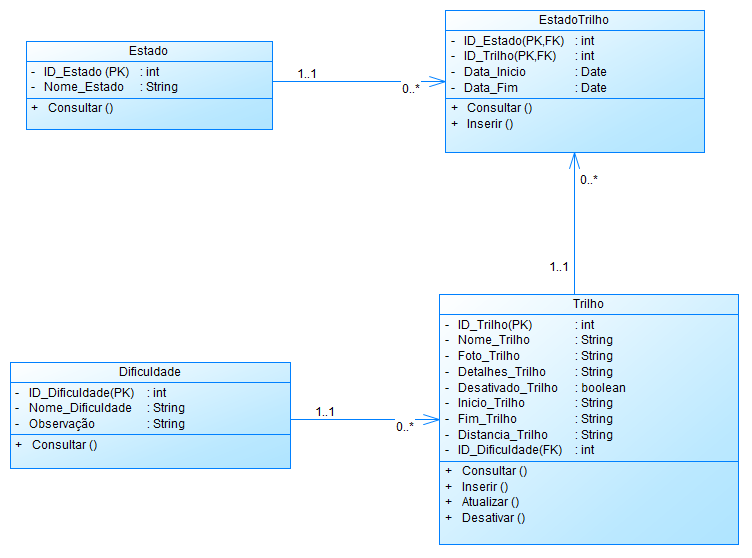
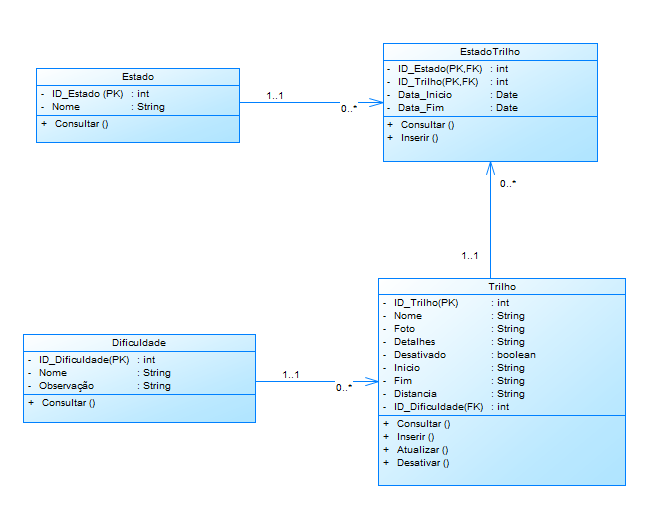
P.I.  Corrigido nome atributos na Classe Trilho (P.I.) - Corrigidos nomes dos campos das Classes (Eng.Soft.2)
Tempo: 0h

diff --git a/Trails4Health/Data/SeedData.cs b/Trails4Health/Data/SeedData.cs
@@ -25,20 +25,20 @@ namespace Trails4Health.Models
         {
             // nota: Em ApplicationDbContext temos campo: DbSet<Product> Products { get; set; }
             dbContext.Trilhos.AddRange(
-                 new Trilho { Nome_Trilho = "Fojo", Foto_Trilho = "~/images/intro-pic.jpg", Detalhes_Trilho = "Lorem ipsum dolor sit amet, consectetur Magnam soluta doloreos excepturi veritatis",
-                     Desativado_Trilho = false, Inicio_Trilho = "Tapada", Fim_Trilho = "Fojo",  Distancia_Trilho = "5 km"
+                 new Trilho { Nome = "Fojo", Foto = "~/images/intro-pic.jpg", Detalhes = "Lorem ipsum dolor sit amet, consectetur Magnam soluta doloreos excepturi veritatis",
+                     Desativado = false, Inicio = "Tapada", Fim = "Fojo",  Distancia = 5000
                  },
-                 new Trilho { Nome_Trilho = "Pateiro", Foto_Trilho = "~/images/intro-pic.jpg", Detalhes_Trilho = "Lorem ipsum dolor sit amet, consectetur Magnam soluta doloreos excepturi veritatis",
-                     Desativado_Trilho = false, Inicio_Trilho = "Monte alto", Fim_Trilho = "Pateiro", Distancia_Trilho = "20 km"
+                 new Trilho { Nome = "Pateiro", Foto = "~/images/intro-pic.jpg", Detalhes = "Lorem ipsum dolor sit amet, consectetur Magnam soluta doloreos excepturi veritatis",
+                     Desativado = false, Inicio = "Monte alto", Fim = "Pateiro", Distancia = 20000
                  },
-                 new Trilho { Nome_Trilho = "Vale Lobos", Foto_Trilho = "~/images/intro-pic.jpg", Detalhes_Trilho = "Lorem ipsum dolor sit amet, consectetur Magnam soluta doloreos excepturi veritatis",
-                     Desativado_Trilho = false, Inicio_Trilho = "Bacia do geres", Fim_Trilho = "Vale Lobos", Distancia_Trilho = "10 km"
+                 new Trilho { Nome = "Vale Lobos", Foto = "~/images/intro-pic.jpg", Detalhes = "Lorem ipsum dolor sit amet, consectetur Magnam soluta doloreos excepturi veritatis",
+                     Desativado = false, Inicio = "Bacia do geres", Fim = "Vale Lobos", Distancia = 27000
                  },
-                 new Trilho { Nome_Trilho = "Regada", Foto_Trilho = "~/images/intro-pic.jpg", Detalhes_Trilho = "Lorem ipsum dolor sit amet, consectetur Magnam soluta doloreos excepturi veritatis",
-                     Desativado_Trilho = false, Inicio_Trilho = "Pocinha", Fim_Trilho = "Regada", Distancia_Trilho = "15 km"
+                 new Trilho { Nome = "Regada", Foto = "~/images/intro-pic.jpg", Detalhes = "Lorem ipsum dolor sit amet, consectetur Magnam soluta doloreos excepturi veritatis",
+                     Desativado = false, Inicio = "Pocinha", Fim = "Regada", Distancia = 15000
                  },
-                 new Trilho { Nome_Trilho = "Coitadas", Foto_Trilho = "~/images/intro-pic.jpg", Detalhes_Trilho = "Lorem ipsum dolor sit amet, consectetur Magnam soluta doloreos excepturi veritatis",
-                     Desativado_Trilho = false, Inicio_Trilho = "Lameira", Fim_Trilho = "Coitadas", Distancia_Trilho = "27 km"
+                 new Trilho { Nome = "Coitadas", Foto = "~/images/intro-pic.jpg", Detalhes = "Lorem ipsum dolor sit amet, consectetur Magnam soluta doloreos excepturi veritatis",
+                     Desativado = false, Inicio = "Lameira", Fim = "Coitadas", Distancia = 13000
                  }
             );
         }

diff --git a/Trails4Health/Models/Trilho.cs b/Trails4Health/Models/Trilho.cs
@@ -8,13 +8,13 @@ namespace Trails4Health.Models
     public class Trilho
     {
         public int TrilhoID { get; set; } // tem de ter este formato para reconhecer pk: nomeID !!
-        public string Nome_Trilho { get; set; }
-        public string Foto_Trilho { get; set; } // +++ endereço da foto??
-        public string Detalhes_Trilho { get; set; }
-        public bool Desativado_Trilho { get; set; }
-        public string Inicio_Trilho { get; set; }
-        public string Fim_Trilho { get; set; }
-        public string Distancia_Trilho { get; set; } // int ??
+        public string Nome { get; set; }
+        public string Foto { get; set; } // +++ endereço da foto??
+        public string Detalhes { get; set; }
+        public bool Desativado { get; set; }
+        public string Inicio { get; set; }
+        public string Fim { get; set; }
+        public decimal Distancia { get; set; }
         //public int ID_Dificuldade { get; set; } // FK /*??*/
 
     }
